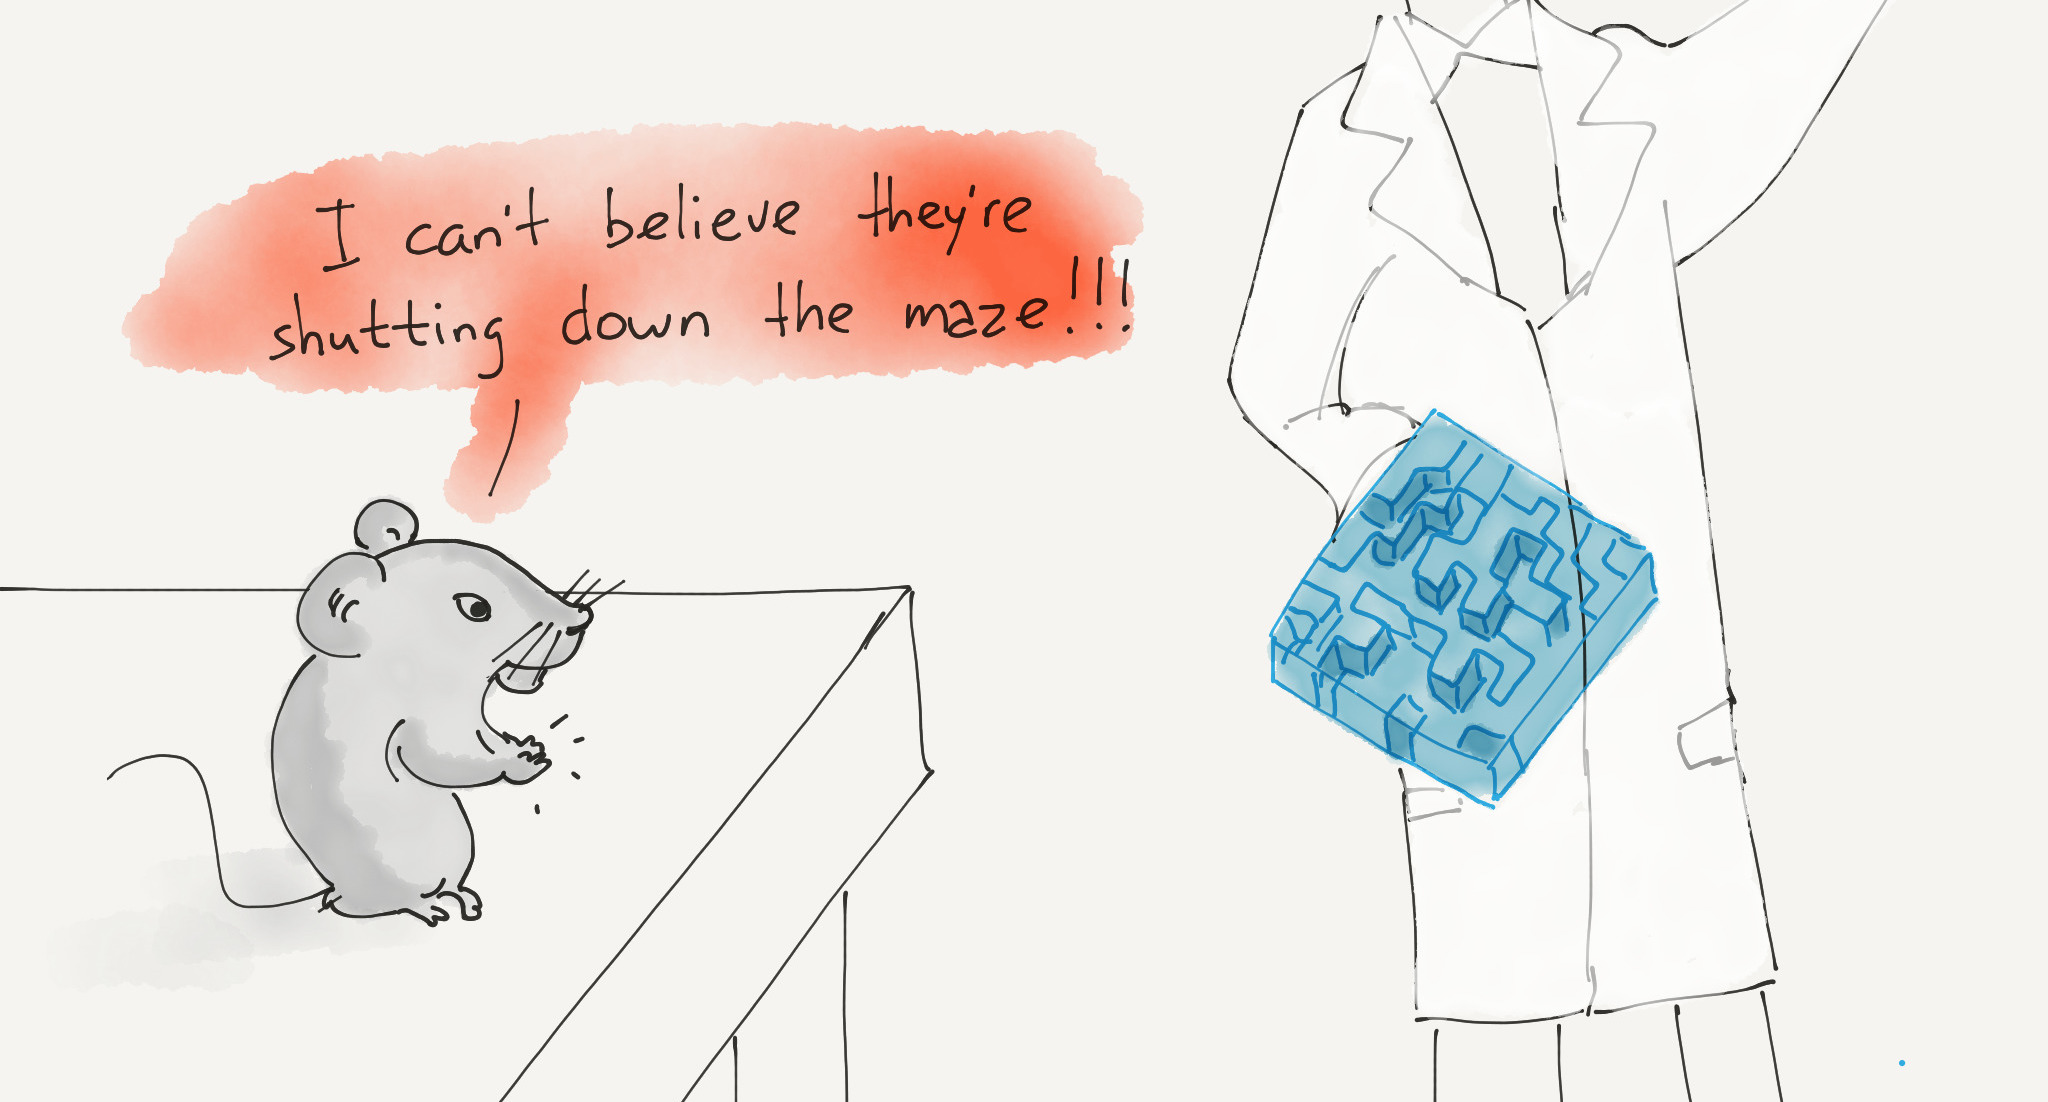
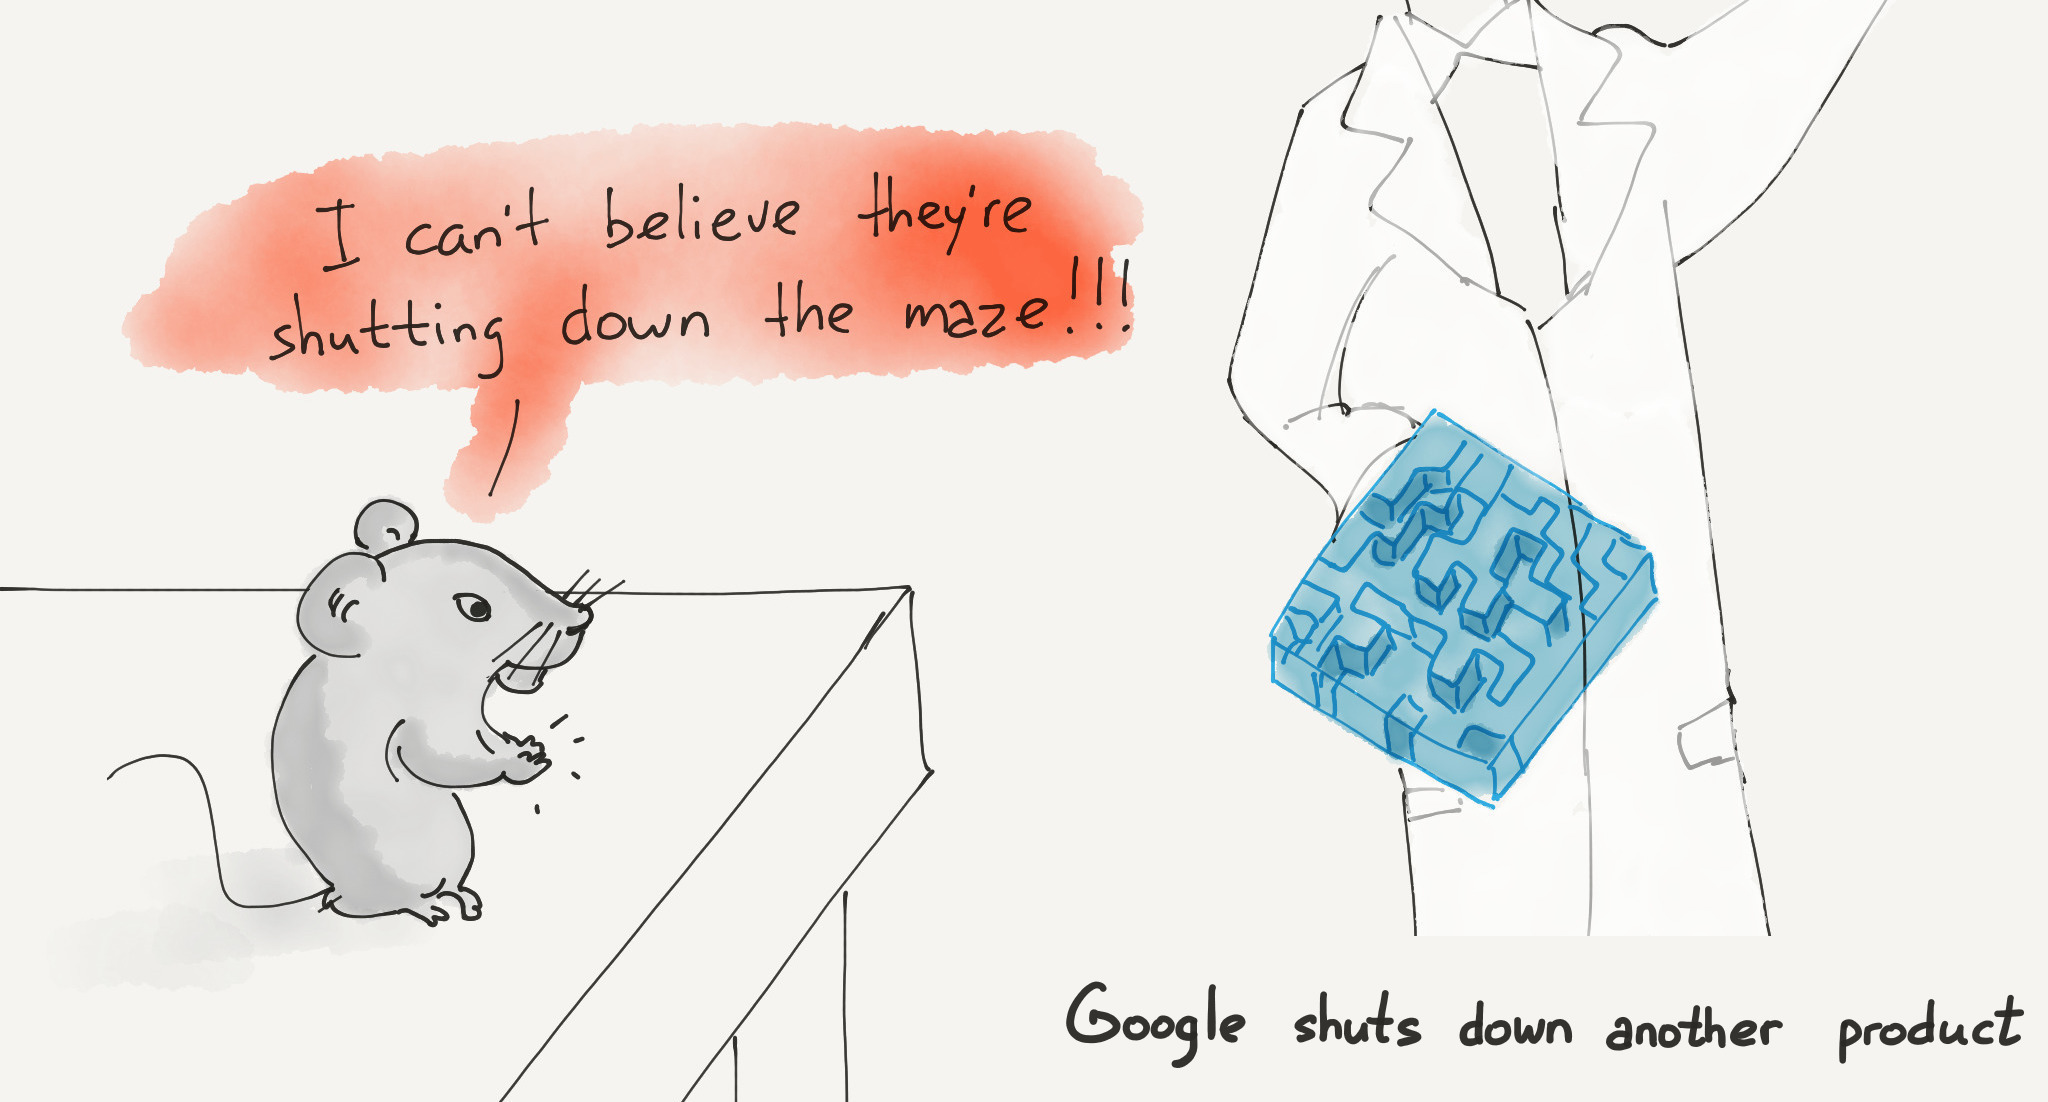
honestly undefined front page and rss

Changed region(s): [[0.5, 0.8947, 1.0, 0.9564]]

diff --git a/layouts/honestly-undefined/list.html b/layouts/honestly-undefined/list.html
@@ -3,16 +3,14 @@
   <div class="article-meta-hu">
     <h1 class="h3">Honestly Undefined</h1>
     <p>{{ .Site.Params.descriptionhu }}</p>
+
     <hr>
     {{ range first 1 (where .Data.Pages "Section" "=" "honestly-undefined") }}
     <p><strong>#{{ .Slug }}: {{ .Title }}</strong></p>
     {{ end }}
   </div>
 
-  {{ range first 1 (where .Data.Pages "Section" "=" "honestly-undefined") }}
-  <img src="/images/honestly-undefined/{{ .File }}.jpg" title="{{ .Title }}" alt="{{ .Title }}">
-  {{ .Content }}
-  {{ end }}
+
 
   <nav class="nav-hu">
     <a href="/honestly-undefined/1">
@@ -33,6 +31,11 @@
       &gt;&gt;
     </a>
   </nav>
+
+  {{ range first 1 (where .Data.Pages "Section" "=" "honestly-undefined") }}
+  <img src="/images/honestly-undefined/{{ .File }}.jpg" title="{{ .Title }}" alt="{{ .Title }}">
+  {{ .Content }}
+  {{ end }}
 
 </div>
 

diff --git a/layouts/honestly-undefined/single.html b/layouts/honestly-undefined/single.html
@@ -9,9 +9,6 @@
     {{ if .Params.draft }}<small class="date text-muted text-light">DRAFT</small>{{ end }}
   </div>
 
-  <img src="/images/honestly-undefined/{{ .File }}.jpg">
-  {{ .Content }}
-
   <nav class="nav-hu">
     <a href="/honestly-undefined/1">
       &lt;&lt;
@@ -41,6 +38,9 @@
       &gt;&gt;
     </a>
   </nav>
+
+  <img src="/images/honestly-undefined/{{ .File }}.jpg">
+  {{ .Content }}
 
 </main>
 

diff --git a/themes/ra/layouts/index.html b/themes/ra/layouts/index.html
@@ -12,7 +12,15 @@
 
   {{ partial "nav.html" . }}
 
+  <hr>
+
   <section>
+
+    <h4>Honestly Undefined</h4>
+    <p>
+      <a href="/honestly-undefined/">Check out</a> a webcomic about computers and uncertainty. It's is updated weekly.
+    </p>
+
   {{ range $taxonomyname, $taxonomy := .Site.Taxonomies }}
     {{ if eq "categories" $taxonomyname }}
       {{ range $key, $value := $taxonomy }}

diff --git a/themes/ra/static/css/style.css b/themes/ra/static/css/style.css
@@ -91,7 +91,7 @@ figure {
 /* Honestly Undefined Container */
 
 .container-hu {
-  max-width: 630px;
+  max-width: 750px;
   margin-right: auto;
   margin-left: auto;
   padding: 21px;

diff --git a/content/honestly-undefined/google_shutdowns_product.md b/content/honestly-undefined/google_shutdowns_product.md
@@ -1,5 +1,5 @@
 +++
-title = "Google shuts down another product"
+title = "I can't believe this happened again"
 author = ["Rakhim Davletkaliyev"]
 date = 2018-09-28T23:16:00+03:00
 slug = 6

diff --git a/content/honestly-undefined/react_js.md b/content/honestly-undefined/react_js.md
@@ -1,5 +1,5 @@
 +++
-title = "React JS"
+title = "Reactive solution"
 author = ["Rakhim Davletkaliyev"]
 date = 2018-08-24T21:16:00+03:00
 slug = 2
